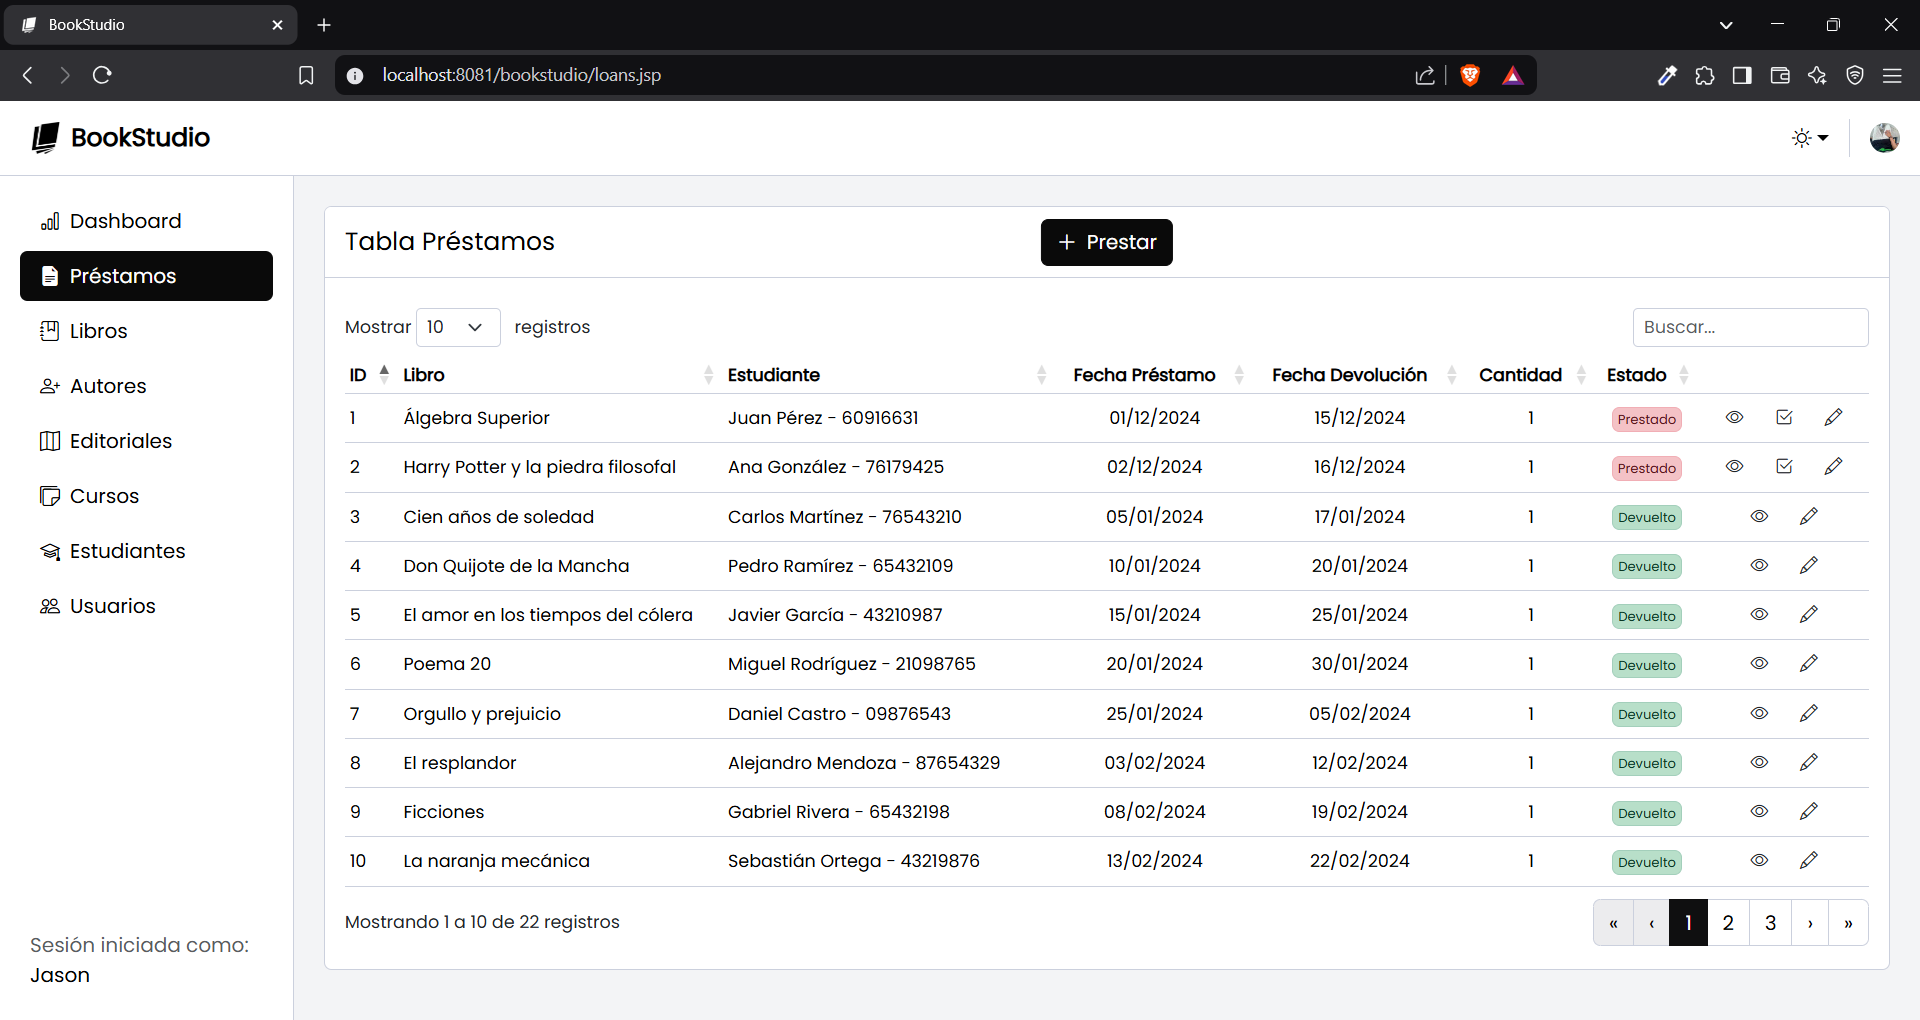
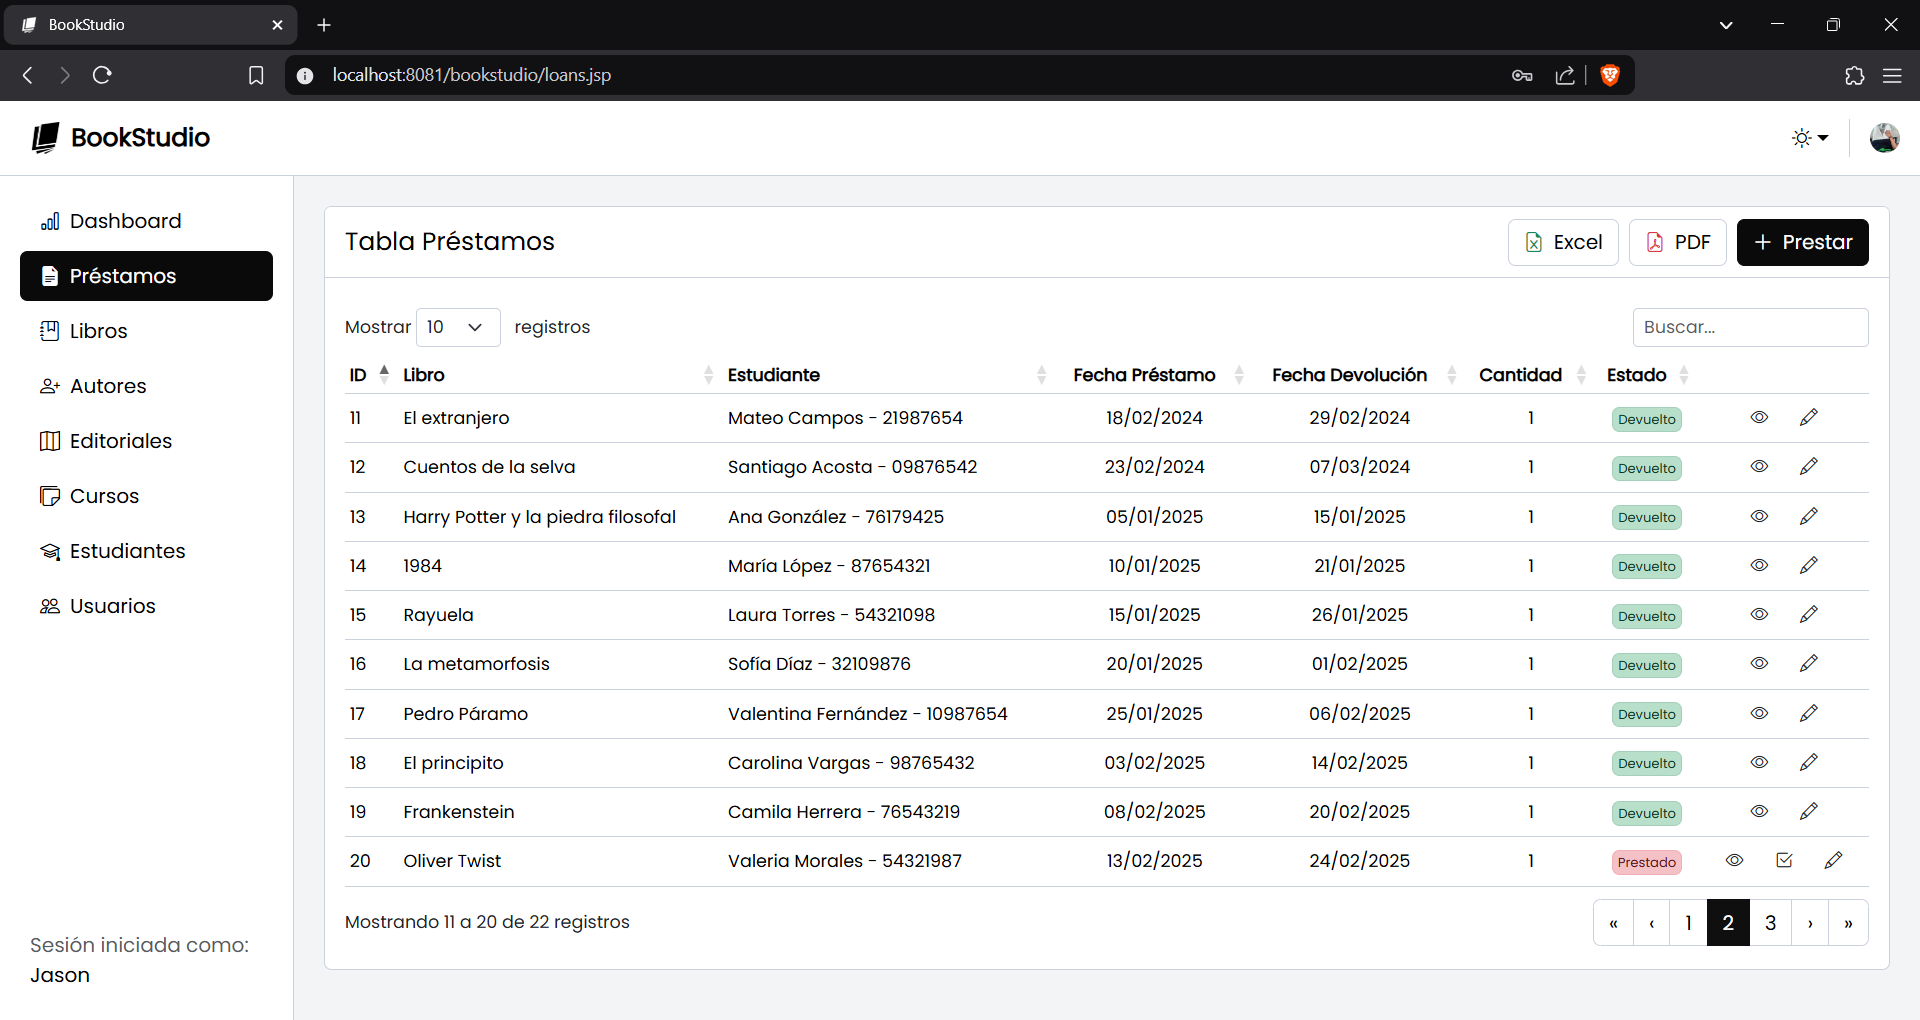
style: add layout and styles for Excel and PDF buttons

diff --git a/src/main/webapp/css/styles-index.css b/src/main/webapp/css/styles-index.css
@@ -218,19 +218,8 @@ body[data-bs-theme="dark"] .bootstrap-select .dropdown-toggle:hover {
         position: relative;
     }
 
-    .card-header button {
-        position: absolute;
-        left: 50%;
-        transform: translateX(-50%);
-    }
-}
-
-@media (max-width: 768px) {
-    .card-header button {
-        position: relative;
-        transform: none;
+    .card-header .excel {
         margin-left: auto;
-        margin-right: 0;
     }
 }
 
@@ -246,6 +235,28 @@ body[data-bs-theme="dark"] .bootstrap-select .dropdown-toggle:hover {
     .bd-placeholder-img-lg {
         font-size: 3.5rem;
     }
+    
+    .card-header {
+        display: flex;
+        flex-wrap: wrap;
+        justify-content: space-between;
+    }
+
+    .card-header h5 {
+        flex-basis: 100%;
+    }
+
+    .card-header button {
+        margin-top: 5px;
+        margin-bottom: 5px;
+        margin-left: 0;
+    }
+    
+    .modal-dialog {
+        display: flex;
+        align-items: center;
+        min-height: calc(100% - var(--bs-modal-margin) * 2);
+    }
 }
 
 @media (min-width: 929px) {
@@ -257,14 +268,6 @@ body[data-bs-theme="dark"] .bootstrap-select .dropdown-toggle:hover {
 @media (max-width: 928px) {
     .table-responsive {
         overflow-x: auto;
-    }
-}
-
-@media (max-width: 768px) {
-    .modal-dialog {
-        display: flex;
-        align-items: center;
-        min-height: calc(100% - var(--bs-modal-margin) * 2);
     }
 }
 

diff --git a/src/main/webapp/utils/datatables-setup.js b/src/main/webapp/utils/datatables-setup.js
@@ -1,13 +1,13 @@
 function toggleButtonAndSpinner(action) {
-    const button = $('#btnAdd');
+    const buttons = $('#buttonGroupHeader button');
     const spinner = $('#spinnerLoad');
 
     if (action === 'loading') {
         spinner.removeClass('d-none');
-        button.prop('disabled', true);
+        buttons.prop('disabled', true);
     } else if (action === 'loaded') {
         spinner.addClass('d-none');
-        button.prop('disabled', false);
+        buttons.prop('disabled', false);
     }
 }
 
